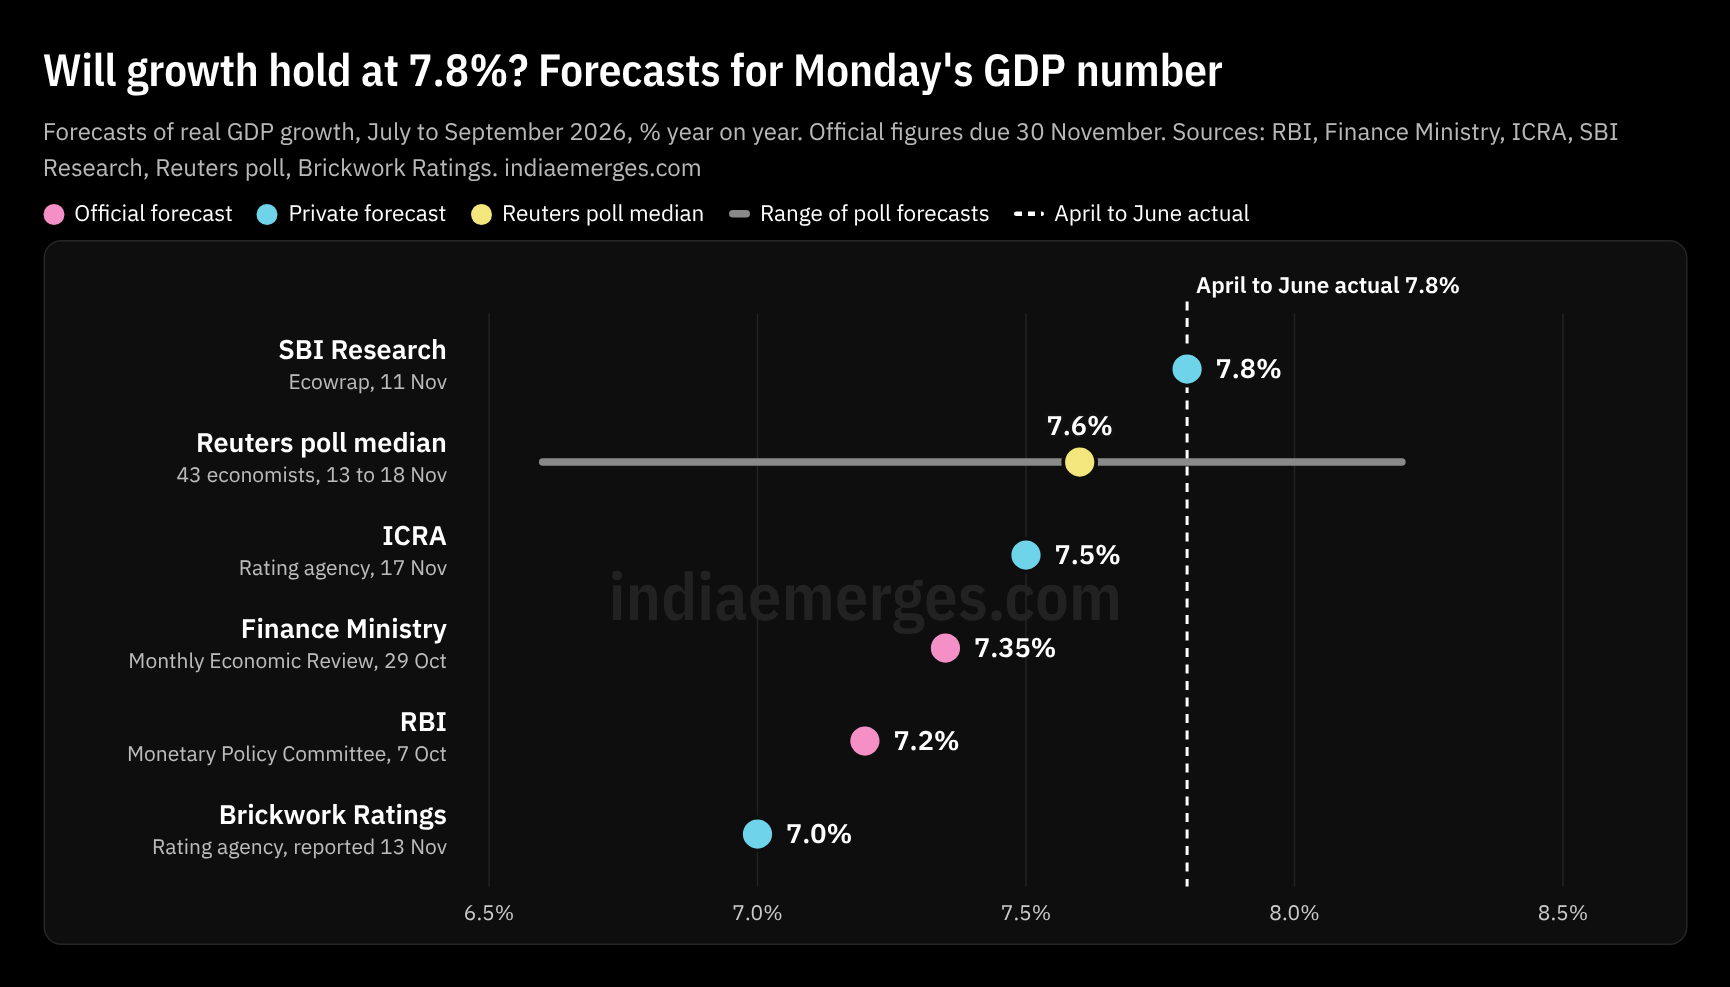
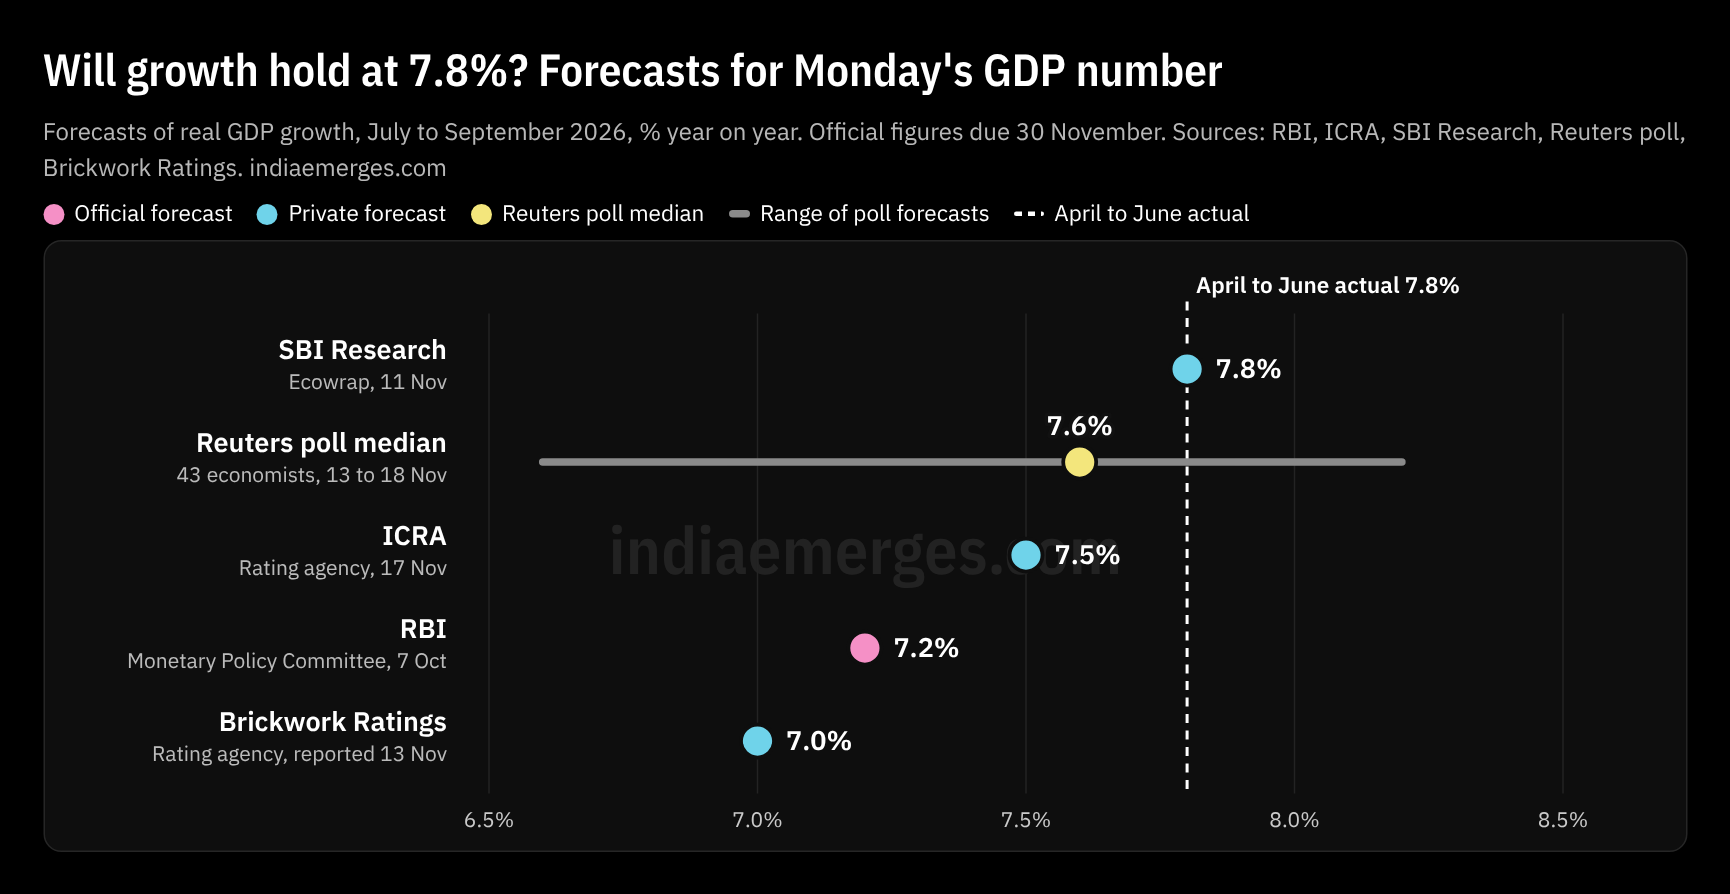
Chart of the day 26 Nov: drop the Finance Ministry forecast
Claude-Session: https://claude.ai/code/session_014BVoBL9geq5oY9Pd7XYswa

diff --git a/index.html b/index.html
@@ -150,12 +150,12 @@ footer a:hover{color:#fff}
     <!-- CHART:START -->
     <div class="sh"><h2 id="h-chart">Chart of the day</h2><a href="/charts/">All charts →</a></div>
     <figure class="cod">
-      <div class="cod-int" data-spec="{&quot;type&quot;: &quot;dots&quot;, &quot;data&quot;: &quot;/charts/data/2026-11-26-gdp-forecasts.csv&quot;, &quot;name&quot;: &quot;forecaster&quot;, &quot;sub&quot;: &quot;detail&quot;, &quot;value&quot;: &quot;forecast_pct&quot;, &quot;lo&quot;: &quot;range_low_pct&quot;, &quot;hi&quot;: &quot;range_high_pct&quot;, &quot;colors&quot;: [[&quot;type&quot;, &quot;Official&quot;, &quot;#F590C6&quot;], [&quot;type&quot;, &quot;Private&quot;, &quot;#6FD3EA&quot;], [&quot;type&quot;, &quot;Poll&quot;, &quot;#F3E67C&quot;]], &quot;refs&quot;: [{&quot;v&quot;: 7.8, &quot;label&quot;: &quot;April to June actual&quot;}], &quot;min&quot;: 6.5, &quot;max&quot;: 8.5, &quot;vname&quot;: &quot;Forecast&quot;, &quot;note&quot;: &quot;note&quot;, &quot;unit&quot;: &quot;Real GDP growth, July to September 2026, % year on year&quot;, &quot;legend&quot;: [[&quot;Official forecast&quot;, &quot;#F590C6&quot;, &quot;dot&quot;], [&quot;Private forecast&quot;, &quot;#6FD3EA&quot;, &quot;dot&quot;], [&quot;Reuters poll median&quot;, &quot;#F3E67C&quot;, &quot;dot&quot;], [&quot;Range of poll forecasts&quot;, &quot;#8a8a8a&quot;, &quot;range&quot;], [&quot;April to June actual&quot;, &quot;#ffffff&quot;, &quot;line&quot;]], &quot;title&quot;: &quot;Will growth hold at 7.8%? Forecasts for Monday&#x27;s GDP number&quot;}"><h3>Will growth hold at 7.8%? Forecasts for Monday&#x27;s GDP number</h3><div class="ctls cod-ui"></div><div class="legend cod-legend"></div><div class="plot"><div class="cod-fallback"><a href="/charts/2026-11-26-gdp-forecasts.png"><img src="/charts/2026-11-26-gdp-forecasts.png" alt="Dot chart of forecasts for India&#x27;s GDP growth in July to September 2026. SBI Research 7.8%. Reuters poll median 7.6%, range 6.6% to 8.2%. ICRA 7.5%. Finance Ministry 7.35%. RBI 7.2%. Brickwork Ratings 7.0%. Growth in April to June was 7.8%." loading="lazy"></a></div><div class="cod-plot"></div></div></div>
+      <div class="cod-int" data-spec="{&quot;type&quot;: &quot;dots&quot;, &quot;data&quot;: &quot;/charts/data/2026-11-26-gdp-forecasts.csv&quot;, &quot;name&quot;: &quot;forecaster&quot;, &quot;sub&quot;: &quot;detail&quot;, &quot;value&quot;: &quot;forecast_pct&quot;, &quot;lo&quot;: &quot;range_low_pct&quot;, &quot;hi&quot;: &quot;range_high_pct&quot;, &quot;colors&quot;: [[&quot;type&quot;, &quot;Official&quot;, &quot;#F590C6&quot;], [&quot;type&quot;, &quot;Private&quot;, &quot;#6FD3EA&quot;], [&quot;type&quot;, &quot;Poll&quot;, &quot;#F3E67C&quot;]], &quot;refs&quot;: [{&quot;v&quot;: 7.8, &quot;label&quot;: &quot;April to June actual&quot;}], &quot;min&quot;: 6.5, &quot;max&quot;: 8.5, &quot;vname&quot;: &quot;Forecast&quot;, &quot;note&quot;: &quot;note&quot;, &quot;unit&quot;: &quot;Real GDP growth, July to September 2026, % year on year&quot;, &quot;legend&quot;: [[&quot;Official forecast&quot;, &quot;#F590C6&quot;, &quot;dot&quot;], [&quot;Private forecast&quot;, &quot;#6FD3EA&quot;, &quot;dot&quot;], [&quot;Reuters poll median&quot;, &quot;#F3E67C&quot;, &quot;dot&quot;], [&quot;Range of poll forecasts&quot;, &quot;#8a8a8a&quot;, &quot;range&quot;], [&quot;April to June actual&quot;, &quot;#ffffff&quot;, &quot;line&quot;]], &quot;title&quot;: &quot;Will growth hold at 7.8%? Forecasts for Monday&#x27;s GDP number&quot;}"><h3>Will growth hold at 7.8%? Forecasts for Monday&#x27;s GDP number</h3><div class="ctls cod-ui"></div><div class="legend cod-legend"></div><div class="plot"><div class="cod-fallback"><a href="/charts/2026-11-26-gdp-forecasts.png"><img src="/charts/2026-11-26-gdp-forecasts.png" alt="Dot chart of forecasts for India&#x27;s GDP growth in July to September 2026. SBI Research 7.8%. Reuters poll median 7.6%, range 6.6% to 8.2%. ICRA 7.5%. RBI 7.2%. Brickwork Ratings 7.0%. Growth in April to June was 7.8%." loading="lazy"></a></div><div class="cod-plot"></div></div></div>
       <figcaption>
         <time datetime="2026-11-26">26 November 2026</time>
         <p class="cod-sub">Forecasts of India&#x27;s real GDP growth for July to September 2026, % year on year. The dashed line is growth in April to June. Official figures are due on 30 November.</p>
-        <p class="cod-cap">All six forecasts are at or below April to June&#x27;s 7.8%, though some economists in the Reuters poll expect as much as 8.2%. SBI Research is the most optimistic at 7.8%. The RBI&#x27;s Monetary Policy Committee is the most cautious official forecaster at 7.2%, though it has already raised its forecast from 6.4% in August. The Reuters poll median is 7.6%, with individual forecasts from 6.6% to 8.2%. We will add the official figure on Monday.</p>
-        <p class="cod-src">Source: RBI Monetary Policy Statement, 7 October 2026; Ministry of Finance, Monthly Economic Review, October 2026; ICRA, 17 November 2026; SBI Research Ecowrap, 11 November 2026; Reuters poll, 13 to 18 November 2026, as reported; Brickwork Ratings, as reported by Business Today, 13 November 2026</p>
+        <p class="cod-cap">All five forecasts are at or below April to June&#x27;s 7.8%, though some economists in the Reuters poll expect as much as 8.2%. SBI Research is the most optimistic at 7.8%. The RBI&#x27;s Monetary Policy Committee expects 7.2%, already up from the 6.4% it forecast in August. The Reuters poll median is 7.6%, with individual forecasts from 6.6% to 8.2%. We will add the official figure on Monday.</p>
+        <p class="cod-src">Source: RBI Monetary Policy Statement, 7 October 2026; ICRA, 17 November 2026; SBI Research Ecowrap, 11 November 2026; Reuters poll, 13 to 18 November 2026, as reported; Brickwork Ratings, as reported by Business Today, 13 November 2026</p>
       </figcaption>
     </figure>
     <!-- CHART:END -->

diff --git a/charts/index.html b/charts/index.html
@@ -33,10 +33,10 @@
     <figure class="arc" id="2026-11-26">
       <time datetime="2026-11-26">26 November 2026</time>
       
-      <div class="cod-int" data-spec="{&quot;type&quot;: &quot;dots&quot;, &quot;data&quot;: &quot;/charts/data/2026-11-26-gdp-forecasts.csv&quot;, &quot;name&quot;: &quot;forecaster&quot;, &quot;sub&quot;: &quot;detail&quot;, &quot;value&quot;: &quot;forecast_pct&quot;, &quot;lo&quot;: &quot;range_low_pct&quot;, &quot;hi&quot;: &quot;range_high_pct&quot;, &quot;colors&quot;: [[&quot;type&quot;, &quot;Official&quot;, &quot;#F590C6&quot;], [&quot;type&quot;, &quot;Private&quot;, &quot;#6FD3EA&quot;], [&quot;type&quot;, &quot;Poll&quot;, &quot;#F3E67C&quot;]], &quot;refs&quot;: [{&quot;v&quot;: 7.8, &quot;label&quot;: &quot;April to June actual&quot;}], &quot;min&quot;: 6.5, &quot;max&quot;: 8.5, &quot;vname&quot;: &quot;Forecast&quot;, &quot;note&quot;: &quot;note&quot;, &quot;unit&quot;: &quot;Real GDP growth, July to September 2026, % year on year&quot;, &quot;legend&quot;: [[&quot;Official forecast&quot;, &quot;#F590C6&quot;, &quot;dot&quot;], [&quot;Private forecast&quot;, &quot;#6FD3EA&quot;, &quot;dot&quot;], [&quot;Reuters poll median&quot;, &quot;#F3E67C&quot;, &quot;dot&quot;], [&quot;Range of poll forecasts&quot;, &quot;#8a8a8a&quot;, &quot;range&quot;], [&quot;April to June actual&quot;, &quot;#ffffff&quot;, &quot;line&quot;]], &quot;title&quot;: &quot;Will growth hold at 7.8%? Forecasts for Monday&#x27;s GDP number&quot;}"><h3>Will growth hold at 7.8%? Forecasts for Monday&#x27;s GDP number</h3><div class="ctls cod-ui"></div><div class="legend cod-legend"></div><div class="plot"><div class="cod-fallback"><a href="/charts/2026-11-26-gdp-forecasts.png"><img src="/charts/2026-11-26-gdp-forecasts.png" alt="Dot chart of forecasts for India&#x27;s GDP growth in July to September 2026. SBI Research 7.8%. Reuters poll median 7.6%, range 6.6% to 8.2%. ICRA 7.5%. Finance Ministry 7.35%. RBI 7.2%. Brickwork Ratings 7.0%. Growth in April to June was 7.8%." loading="lazy"></a></div><div class="cod-plot"></div></div></div>
+      <div class="cod-int" data-spec="{&quot;type&quot;: &quot;dots&quot;, &quot;data&quot;: &quot;/charts/data/2026-11-26-gdp-forecasts.csv&quot;, &quot;name&quot;: &quot;forecaster&quot;, &quot;sub&quot;: &quot;detail&quot;, &quot;value&quot;: &quot;forecast_pct&quot;, &quot;lo&quot;: &quot;range_low_pct&quot;, &quot;hi&quot;: &quot;range_high_pct&quot;, &quot;colors&quot;: [[&quot;type&quot;, &quot;Official&quot;, &quot;#F590C6&quot;], [&quot;type&quot;, &quot;Private&quot;, &quot;#6FD3EA&quot;], [&quot;type&quot;, &quot;Poll&quot;, &quot;#F3E67C&quot;]], &quot;refs&quot;: [{&quot;v&quot;: 7.8, &quot;label&quot;: &quot;April to June actual&quot;}], &quot;min&quot;: 6.5, &quot;max&quot;: 8.5, &quot;vname&quot;: &quot;Forecast&quot;, &quot;note&quot;: &quot;note&quot;, &quot;unit&quot;: &quot;Real GDP growth, July to September 2026, % year on year&quot;, &quot;legend&quot;: [[&quot;Official forecast&quot;, &quot;#F590C6&quot;, &quot;dot&quot;], [&quot;Private forecast&quot;, &quot;#6FD3EA&quot;, &quot;dot&quot;], [&quot;Reuters poll median&quot;, &quot;#F3E67C&quot;, &quot;dot&quot;], [&quot;Range of poll forecasts&quot;, &quot;#8a8a8a&quot;, &quot;range&quot;], [&quot;April to June actual&quot;, &quot;#ffffff&quot;, &quot;line&quot;]], &quot;title&quot;: &quot;Will growth hold at 7.8%? Forecasts for Monday&#x27;s GDP number&quot;}"><h3>Will growth hold at 7.8%? Forecasts for Monday&#x27;s GDP number</h3><div class="ctls cod-ui"></div><div class="legend cod-legend"></div><div class="plot"><div class="cod-fallback"><a href="/charts/2026-11-26-gdp-forecasts.png"><img src="/charts/2026-11-26-gdp-forecasts.png" alt="Dot chart of forecasts for India&#x27;s GDP growth in July to September 2026. SBI Research 7.8%. Reuters poll median 7.6%, range 6.6% to 8.2%. ICRA 7.5%. RBI 7.2%. Brickwork Ratings 7.0%. Growth in April to June was 7.8%." loading="lazy"></a></div><div class="cod-plot"></div></div></div>
       <p class="sub2">Forecasts of India&#x27;s real GDP growth for July to September 2026, % year on year. The dashed line is growth in April to June. Official figures are due on 30 November.</p>
-      <p>All six forecasts are at or below April to June&#x27;s 7.8%, though some economists in the Reuters poll expect as much as 8.2%. SBI Research is the most optimistic at 7.8%. The RBI&#x27;s Monetary Policy Committee is the most cautious official forecaster at 7.2%, though it has already raised its forecast from 6.4% in August. The Reuters poll median is 7.6%, with individual forecasts from 6.6% to 8.2%. We will add the official figure on Monday.</p>
-      <p class="src">Source: RBI Monetary Policy Statement, 7 October 2026; Ministry of Finance, Monthly Economic Review, October 2026; ICRA, 17 November 2026; SBI Research Ecowrap, 11 November 2026; Reuters poll, 13 to 18 November 2026, as reported; Brickwork Ratings, as reported by Business Today, 13 November 2026</p>
+      <p>All five forecasts are at or below April to June&#x27;s 7.8%, though some economists in the Reuters poll expect as much as 8.2%. SBI Research is the most optimistic at 7.8%. The RBI&#x27;s Monetary Policy Committee expects 7.2%, already up from the 6.4% it forecast in August. The Reuters poll median is 7.6%, with individual forecasts from 6.6% to 8.2%. We will add the official figure on Monday.</p>
+      <p class="src">Source: RBI Monetary Policy Statement, 7 October 2026; ICRA, 17 November 2026; SBI Research Ecowrap, 11 November 2026; Reuters poll, 13 to 18 November 2026, as reported; Brickwork Ratings, as reported by Business Today, 13 November 2026</p>
     </figure>
     <figure class="arc" id="2026-11-25">
       <time datetime="2026-11-25">25 November 2026</time>
